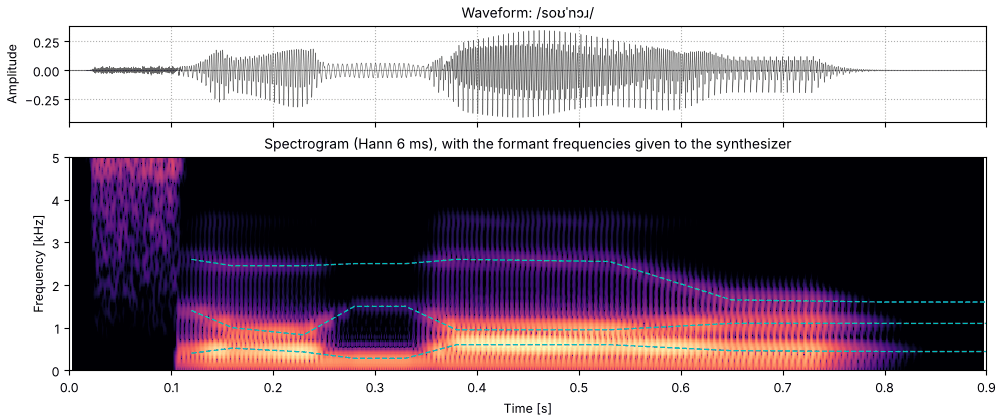
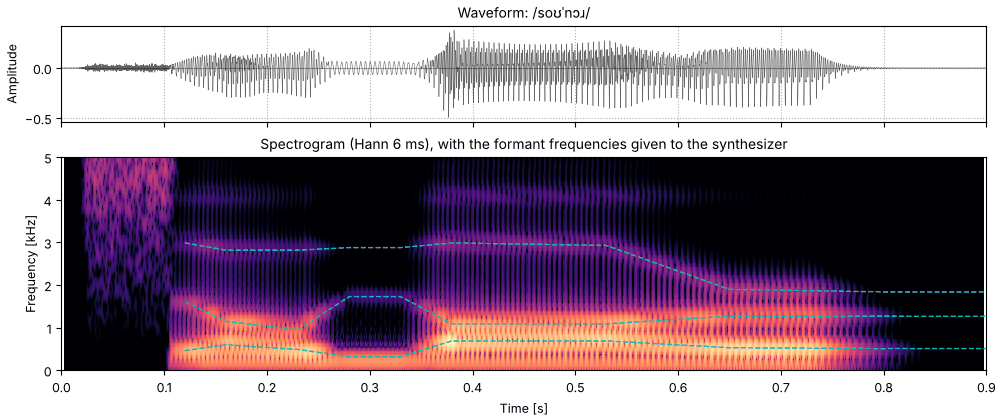
Raise the formants of "sonore" to a female talker's range
F1 to F3 move up about 15 percent, as the female averages on the page do, and F4 and F5 take
the page's female values (4100 and 4900 Hz).

Claude-Session: https://claude.ai/code/session_01Xbi1jtyw1icNRvpKV1ky3F

diff --git a/docs/gallery/formants.html b/docs/gallery/formants.html
@@ -1292,16 +1292,17 @@ sounds = {label: finish(snd) for label, snd in pair.items()}</code></pre></detai
 </section>
 <section aria-labelledby="h-sonore-says-its-name">
 <h2 id="h-sonore-says-its-name">sonore says its name</h2>
-<p>A whole word from tracks set by hand: "sonore" as /soʊˈnɔɹ/. The /s/ is frication through the
-high parallel formants, with the voicing starting under its tail, as in /sa/. For the /n/, F1
-drops, F2 rises toward where the tongue touches the ridge behind the teeth, and the nasal zero
-opens. For the /ɹ/, F3 falls to about 1650 Hz, close to F2. The pitch, in a female talker's
-range, stays level through the first vowel and falls through the second. sonore's logo is drawn
-from this spectrogram: a few short strokes for the /s/, a rise in the middle line for the /n/
-and a step down in the top line for the /ɹ/. It is a picture of the sound rather than a plot of
-it.</p>
+<p>A whole word from tracks set by hand: "sonore" as /soʊˈnɔɹ/, said by a female voice. The /s/ is
+frication through the high parallel formants, with the voicing starting under its tail, as in
+/sa/. For the /n/, F1 drops, F2 rises toward where the tongue touches the ridge behind the
+teeth, and the nasal zero opens. For the /ɹ/, F3 falls to about 1900 Hz, close to F2. The
+formants sit about 15 percent above where a male talker's would, as in the female averages
+above, and the pitch stays level near 220 Hz through the first vowel and falls through the
+second. sonore's logo is drawn from this spectrogram: a few short strokes for the /s/, a rise in
+the middle line for the /n/ and a step down in the top line for the /ɹ/. It is a picture of the
+sound rather than a plot of it.</p>
 
-<article class="sound" id="d-fl1" data-regions="[{&quot;x0&quot;: 0.0692255394965278, &quot;x1&quot;: 0.9864111249999998, &quot;top&quot;: 0.0617980820105819, &quot;bottom&quot;: 0.29039490377269217, &quot;t0&quot;: 0.0, &quot;t1&quot;: 0.9}, {&quot;x0&quot;: 0.0692255394965278, &quot;x1&quot;: 0.9864111249999998, &quot;top&quot;: 0.37368848842877656, &quot;bottom&quot;: 0.8816814256779101, &quot;t0&quot;: 0.0, &quot;t1&quot;: 0.9}]">
+<article class="sound" id="d-fl1" data-regions="[{&quot;x0&quot;: 0.06142866449652778, &quot;x1&quot;: 0.9864111249999999, &quot;top&quot;: 0.0617980820105819, &quot;bottom&quot;: 0.29005645812086267, &quot;t0&quot;: 0.0, &quot;t1&quot;: 0.9}, {&quot;x0&quot;: 0.06142866449652778, &quot;x1&quot;: 0.9864111249999999, &quot;top&quot;: 0.37444058987728646, &quot;bottom&quot;: 0.8816814256779101, &quot;t0&quot;: 0.0, &quot;t1&quot;: 0.9}]">
   <div class="about">
     <h3>sonore says its name</h3>
     <div class="desc"></div>
@@ -1315,9 +1316,9 @@ it.</p>
   <details class="code"><summary>Code</summary><pre><code class="language-python">dur = 0.9
 times = [0.12, 0.16, 0.23, 0.28, 0.33, 0.38, 0.53, 0.65, 0.80]  # o, n, o, r
 tracks = dict(
-    F1=(times, [400, 520, 430, 280, 280, 600, 600, 460, 440]),
-    F2=(times, [1400, 1000, 830, 1500, 1500, 950, 950, 1100, 1100]),
-    F3=(times, [2600, 2450, 2450, 2500, 2500, 2600, 2550, 1650, 1600]),
+    F1=(times, [460, 600, 490, 320, 320, 690, 690, 530, 510]),
+    F2=(times, [1610, 1150, 950, 1730, 1730, 1090, 1090, 1270, 1270]),
+    F3=(times, [2990, 2820, 2820, 2880, 2880, 2990, 2930, 1900, 1840]),
 )
 sound = finish(
     so.klatt_synthesize(
@@ -1326,6 +1327,8 @@ sound = finish(
         F0=([0.10, 0.105, 0.24, 0.36, 0.65, 0.85], [0, 225, 220, 212, 170, 155]),
         AV=([0.10, 0.105, 0.14, 0.24, 0.27, 0.33, 0.37, 0.73, 0.85], [0, 48, 60, 60, 52, 52, 60, 58, 0]),
         AF=([0.01, 0.025, 0.105, 0.125], [0, 58, 58, 0]),
+        F4=4100,
+        F5=4900,
         A4=40,
         A5=56,
         A6=60,

diff --git a/docs/gallery/voice/formants.py b/docs/gallery/voice/formants.py
@@ -913,22 +913,23 @@ sounds = {label: finish(snd) for label, snd in pair.items()}
 # %% [markdown]
 # ## sonore says its name
 #
-# A whole word from tracks set by hand: "sonore" as /soʊˈnɔɹ/. The /s/ is frication through the
-# high parallel formants, with the voicing starting under its tail, as in /sa/. For the /n/, F1
-# drops, F2 rises toward where the tongue touches the ridge behind the teeth, and the nasal zero
-# opens. For the /ɹ/, F3 falls to about 1650 Hz, close to F2. The pitch, in a female talker's
-# range, stays level through the first vowel and falls through the second. sonore's logo is drawn
-# from this spectrogram: a few short strokes for the /s/, a rise in the middle line for the /n/
-# and a step down in the top line for the /ɹ/. It is a picture of the sound rather than a plot of
-# it.
+# A whole word from tracks set by hand: "sonore" as /soʊˈnɔɹ/, said by a female voice. The /s/ is
+# frication through the high parallel formants, with the voicing starting under its tail, as in
+# /sa/. For the /n/, F1 drops, F2 rises toward where the tongue touches the ridge behind the
+# teeth, and the nasal zero opens. For the /ɹ/, F3 falls to about 1900 Hz, close to F2. The
+# formants sit about 15 percent above where a male talker's would, as in the female averages
+# above, and the pitch stays level near 220 Hz through the first vowel and falls through the
+# second. sonore's logo is drawn from this spectrogram: a few short strokes for the /s/, a rise in
+# the middle line for the /n/ and a step down in the top line for the /ɹ/. It is a picture of the
+# sound rather than a plot of it.
 
 # %% [demo fl1] sonore says its name
 dur = 0.9
 times = [0.12, 0.16, 0.23, 0.28, 0.33, 0.38, 0.53, 0.65, 0.80]  # o, n, o, r
 tracks = dict(
-    F1=(times, [400, 520, 430, 280, 280, 600, 600, 460, 440]),
-    F2=(times, [1400, 1000, 830, 1500, 1500, 950, 950, 1100, 1100]),
-    F3=(times, [2600, 2450, 2450, 2500, 2500, 2600, 2550, 1650, 1600]),
+    F1=(times, [460, 600, 490, 320, 320, 690, 690, 530, 510]),
+    F2=(times, [1610, 1150, 950, 1730, 1730, 1090, 1090, 1270, 1270]),
+    F3=(times, [2990, 2820, 2820, 2880, 2880, 2990, 2930, 1900, 1840]),
 )
 sound = finish(
     so.klatt_synthesize(
@@ -937,6 +938,8 @@ sound = finish(
         F0=([0.10, 0.105, 0.24, 0.36, 0.65, 0.85], [0, 225, 220, 212, 170, 155]),
         AV=([0.10, 0.105, 0.14, 0.24, 0.27, 0.33, 0.37, 0.73, 0.85], [0, 48, 60, 60, 52, 52, 60, 58, 0]),
         AF=([0.01, 0.025, 0.105, 0.125], [0, 58, 58, 0]),
+        F4=4100,
+        F5=4900,
         A4=40,
         A5=56,
         A6=60,
